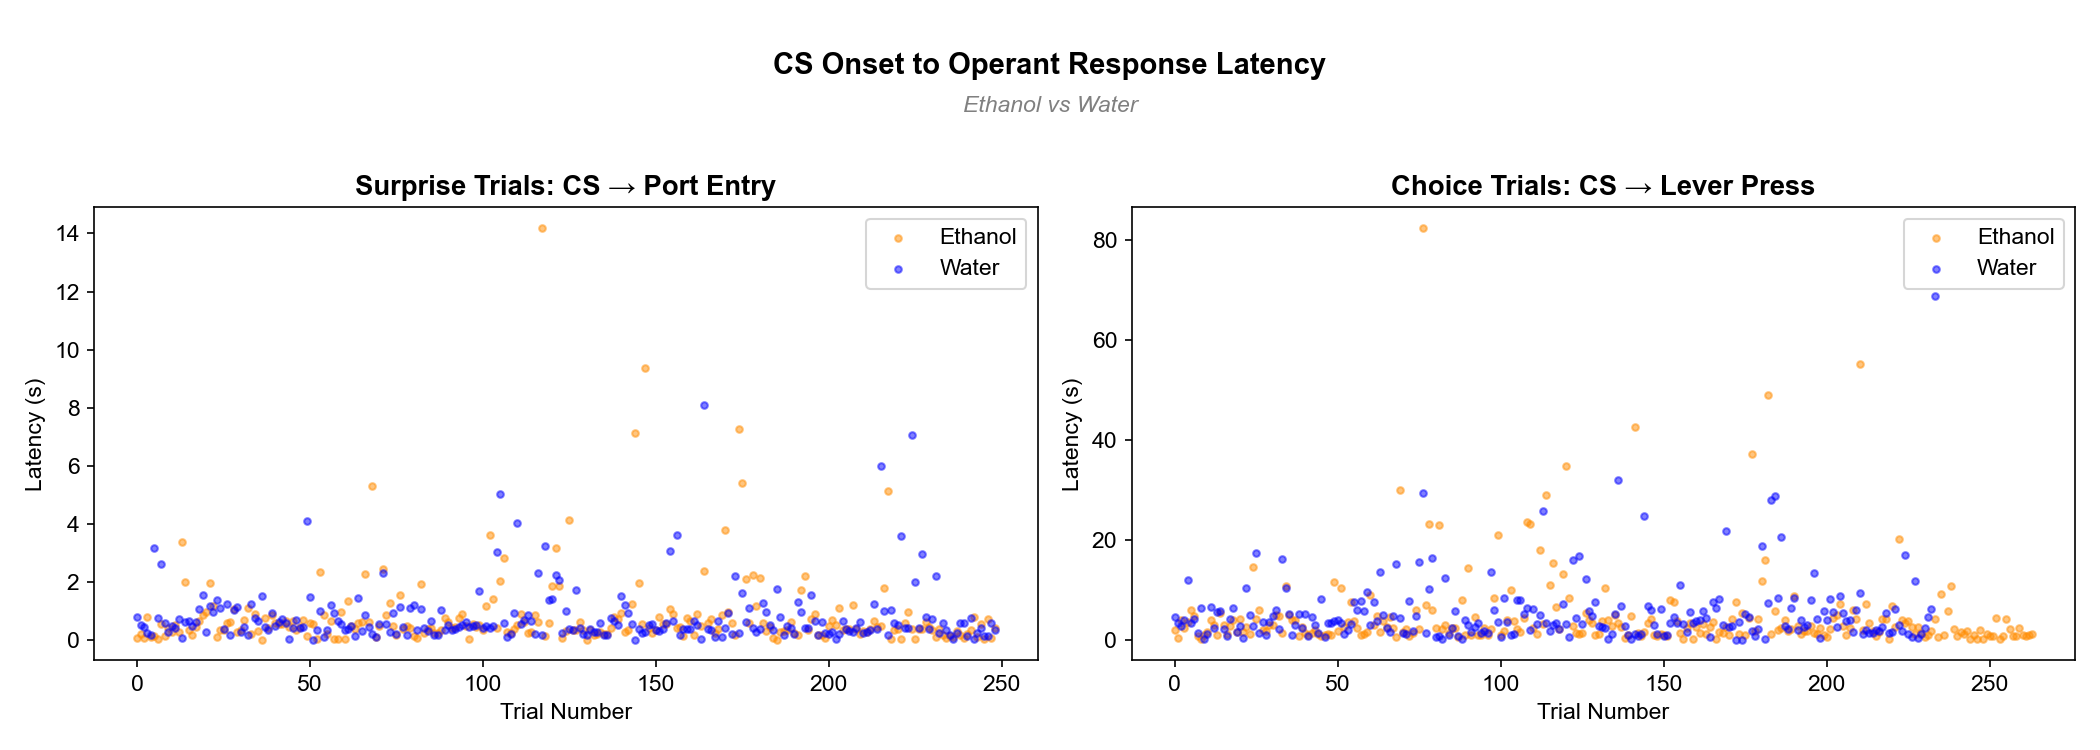
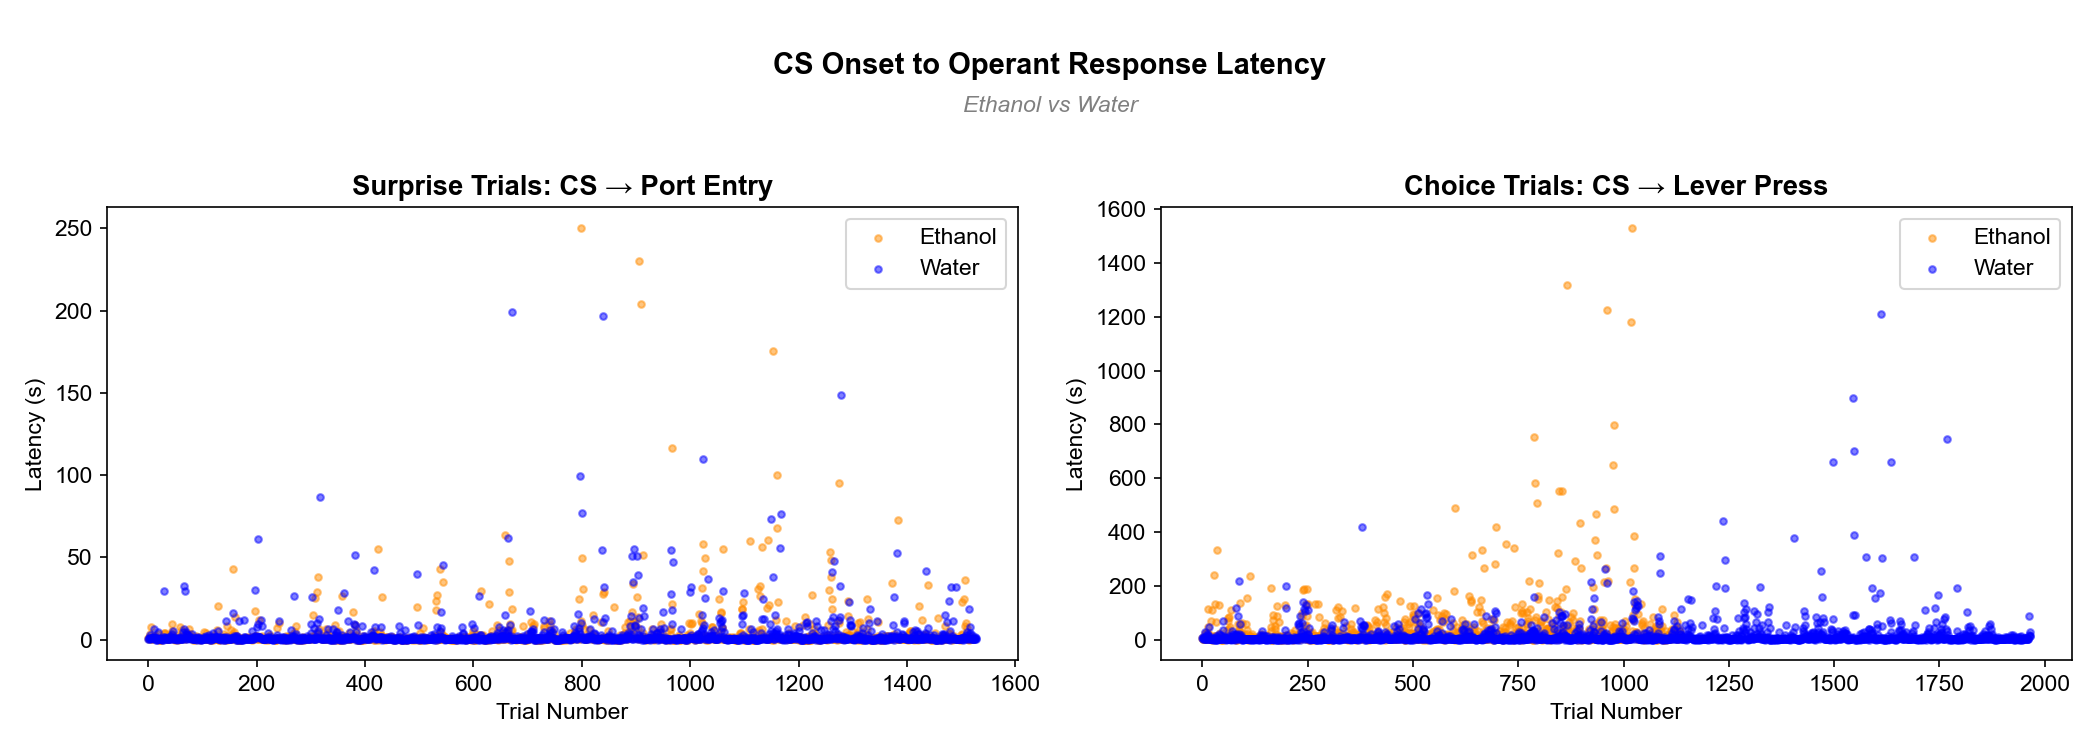
added some comments

diff --git a/data_org.py b/data_org.py
@@ -522,11 +522,10 @@ def plot_bout_cluster_analysis(grid, win_start = -2, win_end = 13):
 
 def plot_cs_to_response_latency(grid, etoh_id):
     """
-    Plots the latency/time difference from CS onset --> operant response,
-    separately for surprise and choice trials, with one line per reward type.
+    Plots the latency (time difference) from CS onset --> operant response separately for surprise/forced and choice trials
 
     Surprise trials: operant response = first port entry after CS onset
-    Choice trials: operant response = whichever lever press (L or R) fired in that trial's window
+    Choice trials: operant response = whichever lever press (L or R) occurred in that trial's window
 
     Two subplots:
         Left: Surprise trials — water vs ethanol latency over trials
@@ -534,17 +533,20 @@ def plot_cs_to_response_latency(grid, etoh_id):
 
     x-axis: trial number (across all sessions, cumulative)
     y-axis: latency in seconds
+
+    trial IDs:
+        1 = 
     """
 
     # QUESTIONS FOR WEDNESDAY
     # 1. There are a couple data points that have super high latency, how do we handle those (could be non-trial related activity)
-    # 
+    # 2. 
 
 
     # make lists for latencies (4 lists)
     
-    etoh_forced_lat = []
-    water_forced_lat = []
+    etoh_surprise_lat = []
+    water_surprise_lat = []
     etoh_choice_lat = []
     water_choice_lat = []
 
@@ -554,15 +556,12 @@ def plot_cs_to_response_latency(grid, etoh_id):
     for (rat, date), data in grid.items():
 
         # set important variables
-        licks = data['Lick']
         ids = data['TrialID']
         cues = data['CS_start']
-        rew_L = data['rewON_L']
-        rew_R = data['rewON_R']
         port_enter = data['PortEnter']
         lp_L = data['rewLP_L']   # left lever press timestamps
         lp_R = data['rewLP_R']   # right lever press timestamps
-        n = len(ids)
+        n = len(ids) # number of trials to know how many times to loop
 
 
         # pull trial id (water vs etoh)
@@ -575,11 +574,11 @@ def plot_cs_to_response_latency(grid, etoh_id):
 
         # go through each trial
         for i in range(n):
-            t = ids[i]
+            t = ids[i] #trial type
 
             # get time window (time stamps for beginning + end) for this trial
             cue = cues[i]
-            nxt = cues[i + 1] if i < n - 1 else np.inf
+            nxt = cues[i + 1] if i < n - 1 else np.inf # inf is for last trial
 
 
         # SURPRISE TRIALS (id 1 or 2)
@@ -596,9 +595,9 @@ def plot_cs_to_response_latency(grid, etoh_id):
 
                 # store under correct reward type
                 if t == eth_trial:
-                    etoh_forced_lat.append(latency)
+                    etoh_surprise_lat.append(latency)
                 else:
-                    water_forced_lat.append(latency)
+                    water_surprise_lat.append(latency)
 
         # CHOICE TRIALS (id 3)
             # elif t == 3:
@@ -610,8 +609,8 @@ def plot_cs_to_response_latency(grid, etoh_id):
 
                 # figure out which one fired, calculate latency
                 if len(lp_L_in) > 0 and len(lp_R_in) > 0:
-                    # both fired — use whichever came first
-                    press_time = min(lp_L_in[0], lp_R_in[0])
+                    # both fired, use whichever came first **NOT SURE IF NECESSARY
+                    press_time = min(lp_L_in[0], lp_R_in[0]) #min val = quicker press
                     pressed_side = 'L' if lp_L_in[0] < lp_R_in[0] else 'R'
                 elif len(lp_L_in) > 0:
                     press_time = lp_L_in[0]
@@ -620,12 +619,12 @@ def plot_cs_to_response_latency(grid, etoh_id):
                     press_time = lp_R_in[0]
                     pressed_side = 'R'
                 else:
-                    continue  # no lever press found, skip trial
+                    continue  # no lever press, skip trial
 
                 latency = press_time - cue
 
                 # figure out which reward the rat chose based on which side it pressed 
-                # + whether that side is etoh/water for this rat
+                # + whether that side is etoh/water for this rat (kind of confusing, might rewrite)
                 if pressed_side == 'L':
                     chose_eth = (data['rewID_L'][0] == etoh_id)
                 else:
@@ -641,9 +640,9 @@ def plot_cs_to_response_latency(grid, etoh_id):
     fig, (ax1, ax2) = plt.subplots(1, 2, figsize=(14, 5))
 
     # surprise trials subplot
-    ax1.scatter(range(len(etoh_forced_lat)), etoh_forced_lat,
+    ax1.scatter(range(len(etoh_surprise_lat)), etoh_surprise_lat,
                 color='darkorange', s=10, alpha=0.5, label='Ethanol')
-    ax1.scatter(range(len(water_forced_lat)), water_forced_lat,
+    ax1.scatter(range(len(water_surprise_lat)), water_surprise_lat,
                 color='blue', s=10, alpha=0.5, label='Water')
     ax1.set_xlabel('Trial Number')
     ax1.set_ylabel('Latency (s)')
@@ -672,6 +671,7 @@ def plot_cs_to_response_latency(grid, etoh_id):
 
 
 if __name__ == '__main__':
+    """
 
     # load all subject files from the data folder
     data_dir = './MPCdata_MJ'
@@ -695,5 +695,9 @@ if __name__ == '__main__':
     # --- bout & cluster analysis ---
     plot_bout_cluster_analysis(grid)
 
+    """
+
     # --- latency plot ---
+    data_dir = './Lotus_phase4_day2-end'
+    metadata_df, grid = load_data(data_dir)
     plot_cs_to_response_latency(grid, 7)
